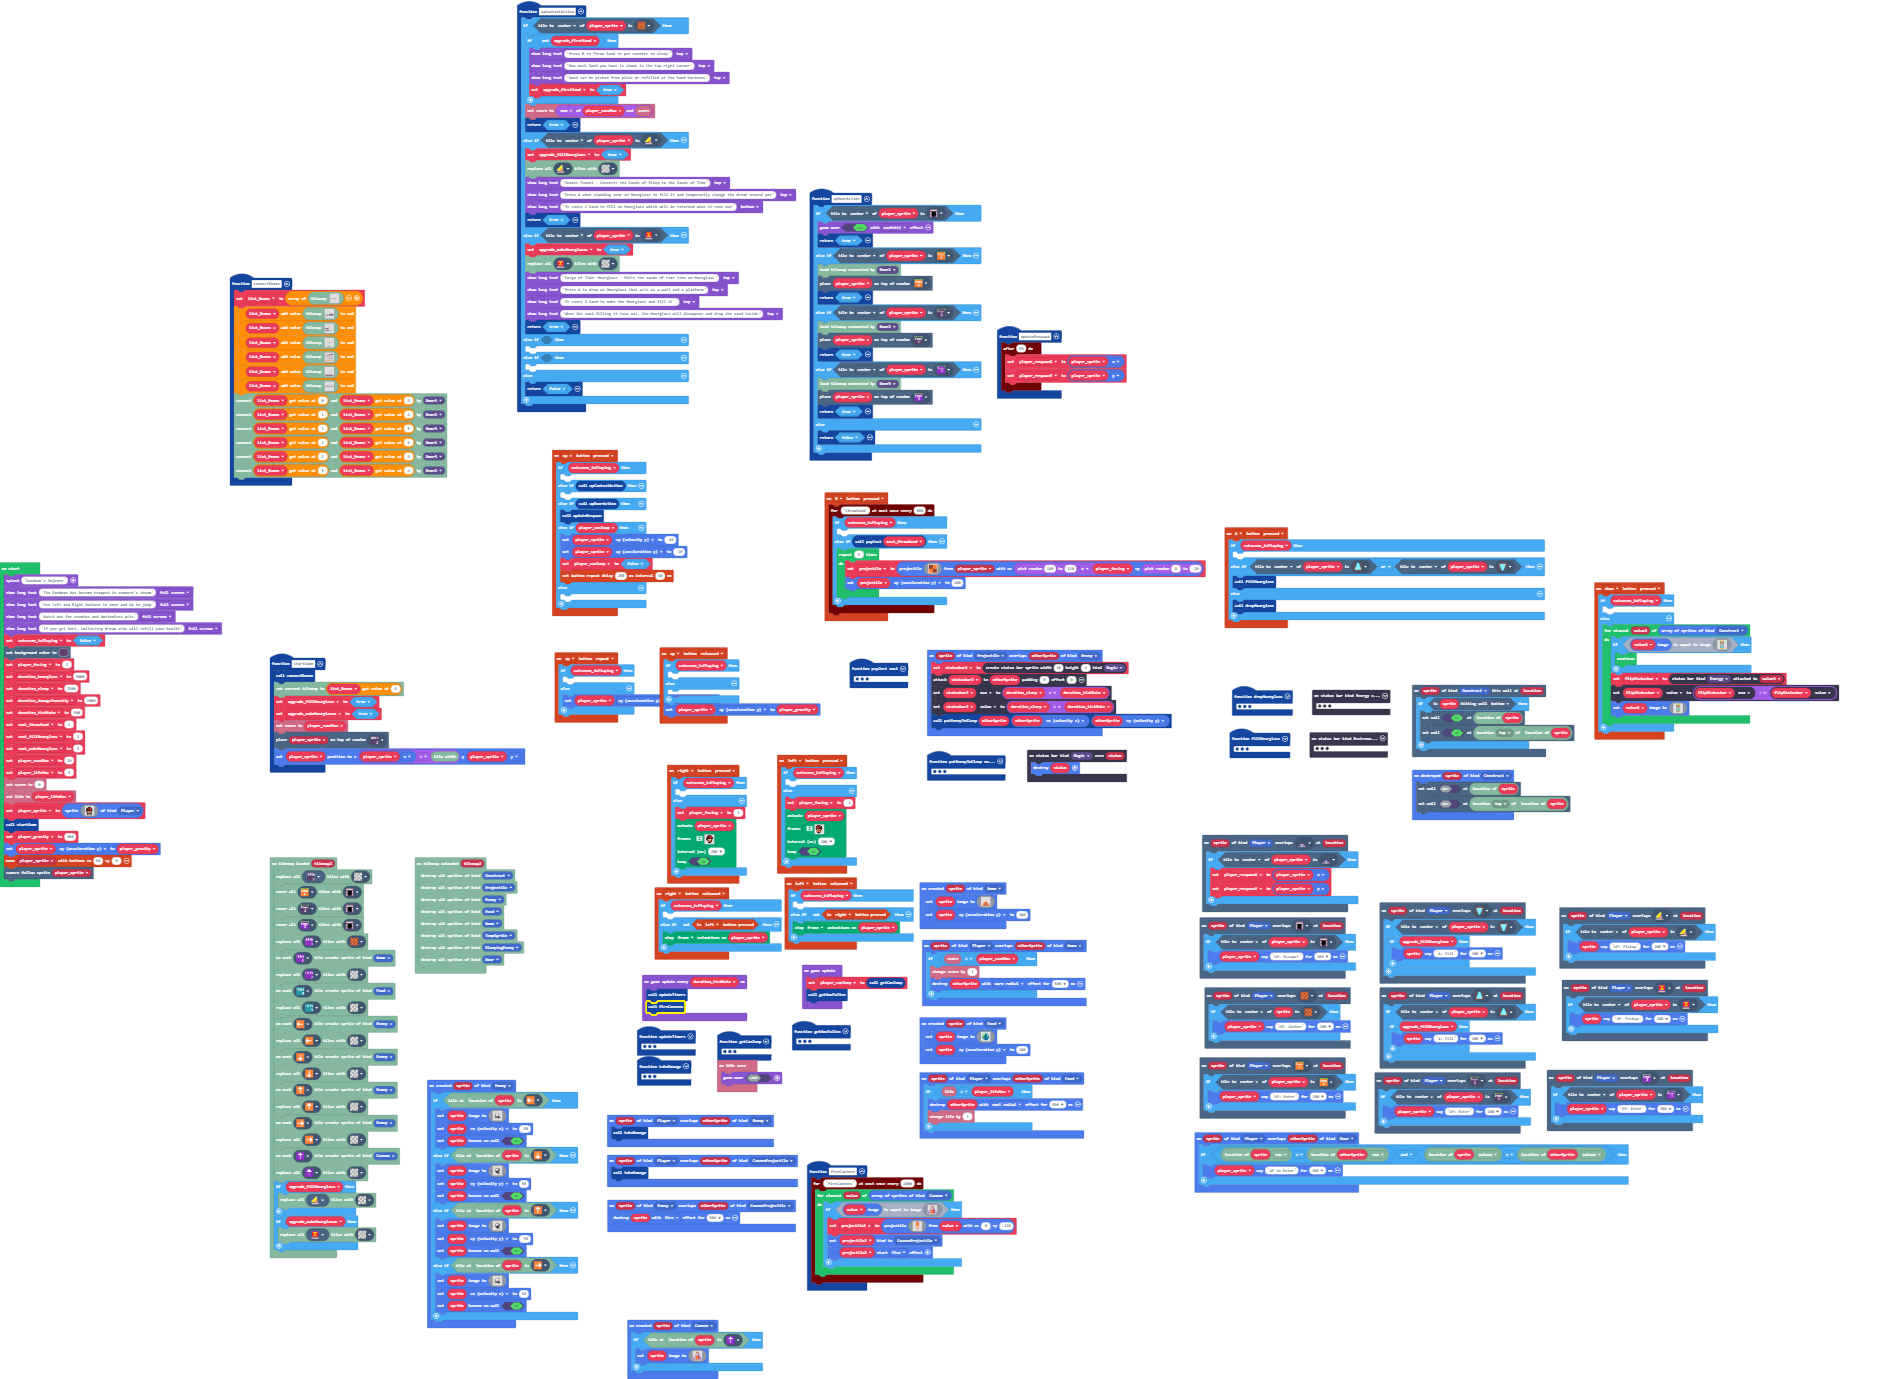
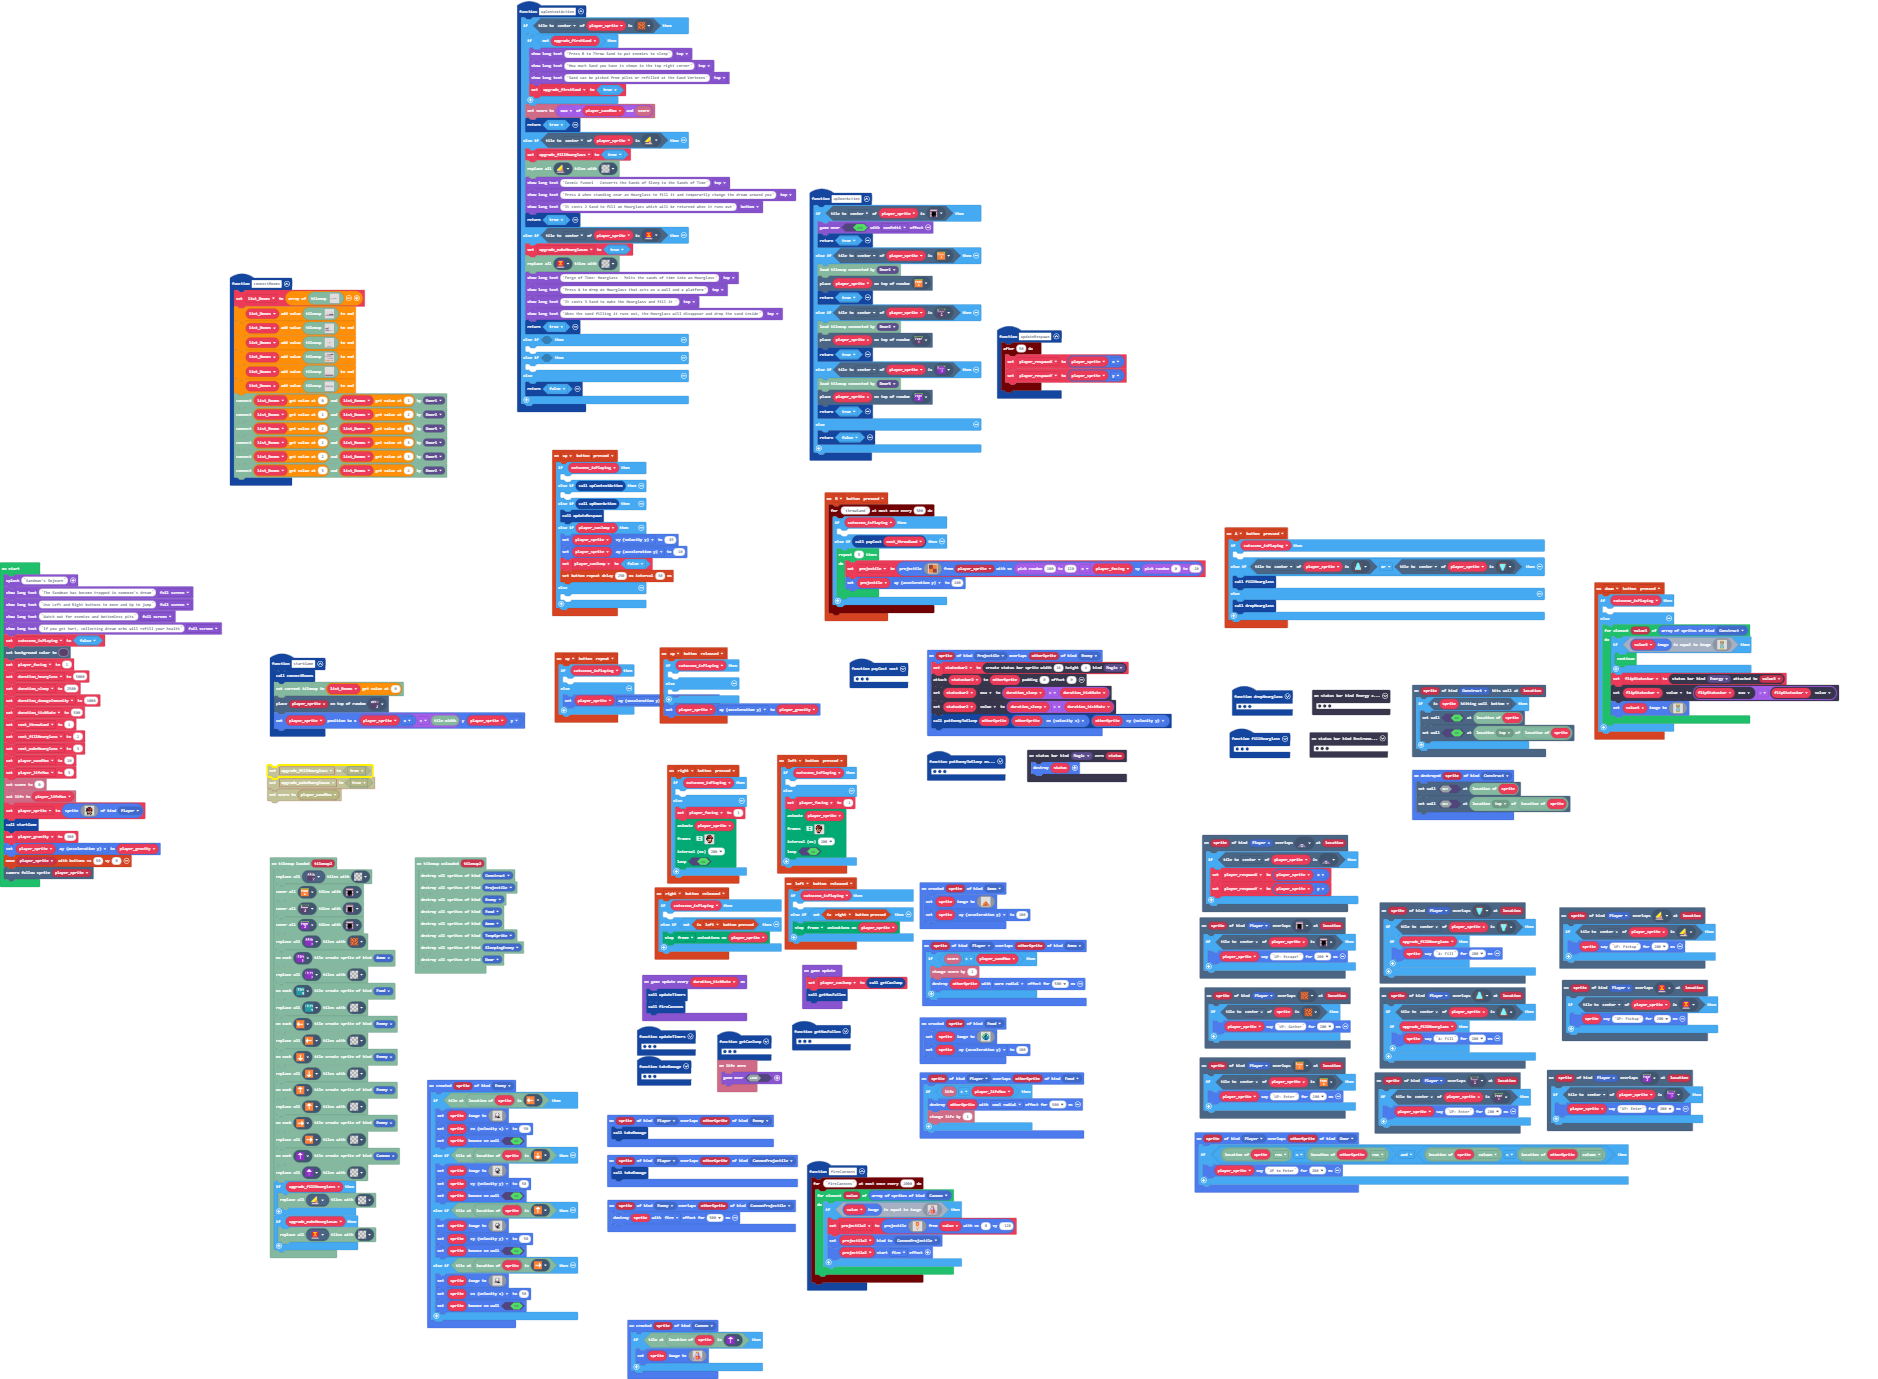
take out test initialization

Changed region(s): [[0.1235, 0.4989, 0.278, 0.5925]]

diff --git a/main.ts b/main.ts
@@ -144,10 +144,7 @@ statusbars.onZero(StatusBarKind.Environment, function (status) {
 })
 function startGame () {
     connectRooms()
-    tiles.loadMap(list_Rooms[5])
-    upgrade_fillHourglass = true
-    upgrade_makeHourglasas = true
-    info.setScore(player_sandMax)
+    tiles.loadMap(list_Rooms[0])
     tiles.placeOnRandomTile(player_sprite, tiles.util.object7)
     player_sprite.setPosition(player_sprite.x + tiles.tileWidth(), player_sprite.y)
 }
@@ -612,9 +609,9 @@ let hourglass: Sprite = null
 let status_bar_list: StatusBarSprite[] = []
 let flipStatusbar: StatusBarSprite = null
 let projectile2: Sprite = null
+let upgrade_makeHourglasas = false
 let statusbar3: StatusBarSprite = null
 let tempSprite: Sprite = null
-let upgrade_makeHourglasas = false
 let list_Rooms: tiles.WorldMap[] = []
 let list: tiles.Location[] = []
 let sand: Sprite = null
